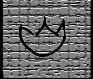
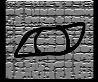
heihei

diff --git a/main.js b/main.js
@@ -1,15 +1,52 @@
+//设置canvas 并插图
+var S0, ctx0, img0;
+var S1, ctx1, img1;
+var S2, ctx2, img2;
+var S3, ctx3, img3;
+var S4, ctx4, img4;
 
-function start(){
+var map = new Array();
+
+function start() {
 	document.getElementById("startPage").style.display = "none";
 	document.getElementById("sequence1").style.display = "block";
 
-	setTimeout(function ()
-	{
+	setTimeout(function () {
 		document.getElementById("sequence1").style.display = "none";
 		document.getElementById("grid-container").style.display = "block";
 
-	},5000);
+	}, 5000);
+
+
+	S0 = document.getElementById("position0");
+	ctx0 = S0.getContext("2d");
+	img0 = document.getElementById("symbol1");
+	ctx0.drawImage(img0,5,5);
+
+	ctx1 = S1.getContext("2d");
+	img1 = document.getElementById("symbol2");
+	ctx1.drawImage(img1, 5, 5);
+
+	S2 = document.getElementById("position2");
+	ctx2 = S2.getContext("2d");
+	img2 = document.getElementById("symbol0");
+	ctx2.drawImage(img2, 5, 5);
+
+	S3 = document.getElementById("position3");
+	ctx3 = S3.getContext("2d");
+	img3 = document.getElementById("symbol1");
+	ctx3.drawImage(img3, 5, 5);
+
+	S4 = document.getElementById("position4");
+	ctx4 = S4.getContext("2d");
+	img4 = document.getElementById("symbol3");
+	ctx4.drawImage(img4, 5, 5);
+
+
+
 }
+
+
 function ins(){
 	document.getElementById("instruction").style.display = "block";
 }
@@ -18,11 +55,7 @@ function HomePage() {
 
 }
 
-//设置canvas 并插图
-var S0=document.getElementById("position0");
-var ctx0 = S0.getContext("2d");
-var img = new Image();
-img.src="http://images.cnblogs.com/cnblogs_com/html5test/359114/r_test.jpg";
-ctx0.drawImage(img,0,0);
+
+
 
 

diff --git a/index.html b/index.html
@@ -24,12 +24,20 @@
 				<a class="btn btn-primary btn-lg" id="ins" onclick="ins()" /> Instruction </a>
 				<a class="btn btn-primary btn-lg" id="start1" onclick="start()"> Start Game </a>
 			</div>
+			<!--image-->
+			<div>
+				<img id="symbol0" class = "symbol" src="0.JPG"  />
+				<img id="symbol1" class = "symbol" src="1.JPG"  />
+				<img id="symbol2" class = "symbol" src="2.JPG"  />
+				<img id="symbol3" class = "symbol" src="3.JPG"  />
+
+		</div>
 			<!--sequence-->
 			<div id="sequence1">
-				<canvas id="position0" class="seqgrid"></canvas>
-				<canvas id="position1" class="seqgrid"></canvas>
-				<canvas id="position2" class="seqgrid"></canvas>
-				<canvas id="position3" class="seqgrid"></canvas>
+				<canvas id="position0" class="seqgrid" width="100" height="100"></canvas>
+				<canvas id="position1" class="seqgrid" width="100" height="100">></canvas>
+				<canvas id="position2" class="seqgrid" width="100" height="100">></canvas>
+				<canvas id="position3" class="seqgrid" width="100" height="100">></canvas>
 			</div>
 			<div id="grid-container">
 				<canvas class = "map" id="grid-0-0"></canvas>

diff --git a/style.css b/style.css
@@ -103,10 +103,10 @@ a {
 #sequence1{
     display: none;
 }
-.seqgrid{
-    width: 100px;
-    height: 100px;
-    background-color: black;
+
+
+.symbol {
+    display : none;
 }
 
 
